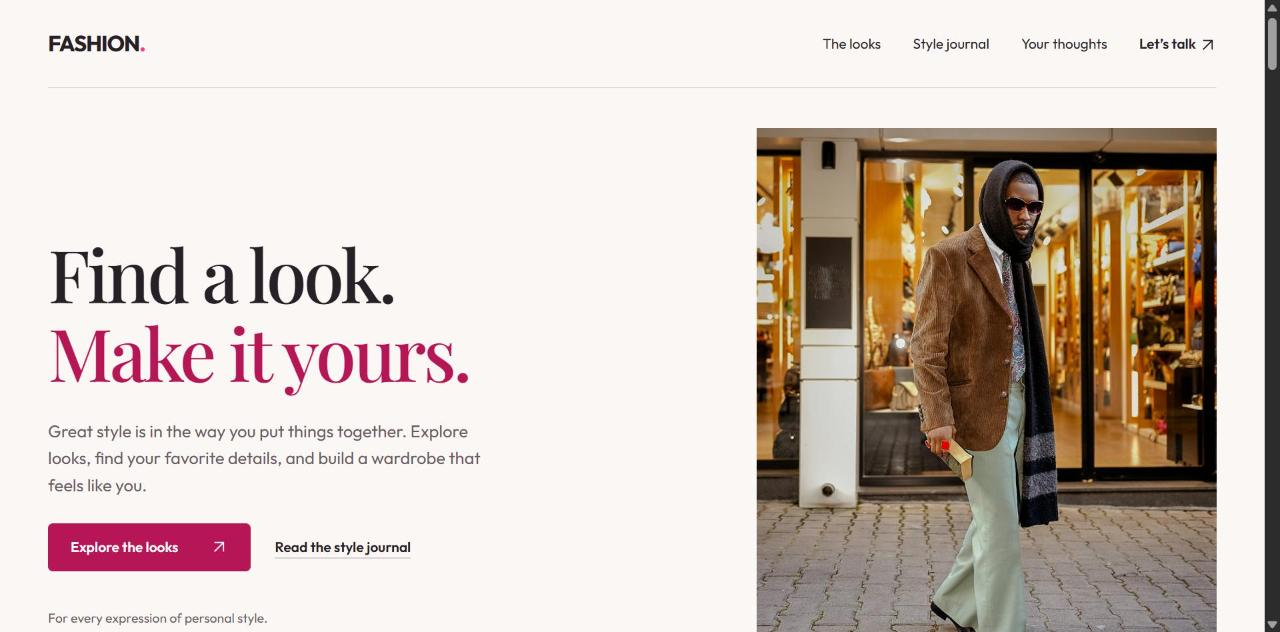
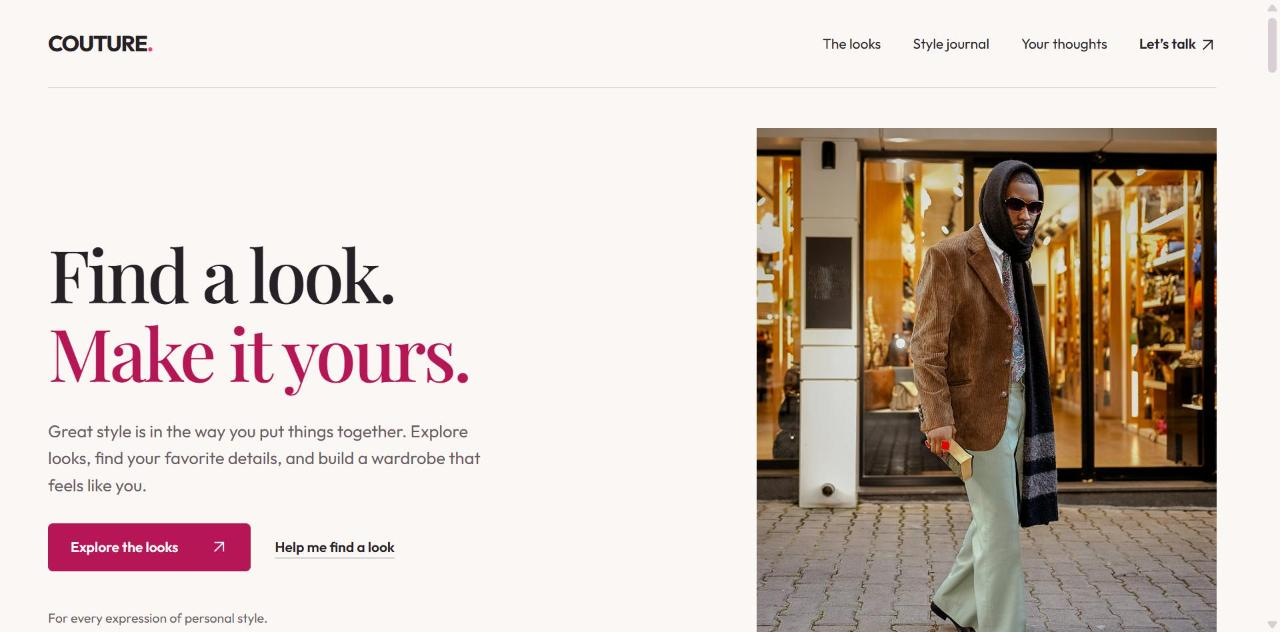
Move Couture (fashion site) to the larger systems, with a fresh screenshot

Changed region(s): [[0.9688, 0.0, 1.0, 1.0], [0.0312, 0.0301, 0.125, 0.0902], [0.2188, 0.8418, 0.3125, 0.8718]]

diff --git a/index.html b/index.html
@@ -392,6 +392,38 @@
                     </div>
                 </div>
 
+<!-- Couture -->
+                <div class="bg-slate-900/60 border border-slate-800/80 rounded-xl p-5 sm:p-6 flex flex-col justify-between hover:border-slate-700 transition-all duration-300 hover:-translate-y-1 hover:shadow-xl hover:shadow-black/30 group">
+                    <div>
+                <a href="https://fash.derrickbarasa.online" target="_blank" rel="noopener noreferrer nofollow" tabindex="-1" aria-label="Open the Couture website" class="relative block bg-slate-800 -mx-5 -mt-5 sm:-mx-6 sm:-mt-6 mb-5 rounded-t-xl overflow-hidden border-b border-slate-800/80">
+                    <span class="absolute top-2 right-2 z-10 inline-flex items-center gap-1.5 px-2 py-0.5 rounded-full bg-slate-950/80 border border-slate-700 text-xs font-mono font-semibold text-white"><span class="w-1.5 h-1.5 rounded-full bg-emerald-400"></span>Live</span>
+                    <img src="img/fashion.jpg?v=2" alt="Screenshot of the Couture website" width="1280" height="632" loading="lazy" decoding="async" class="w-full aspect-video object-cover object-top group-hover:scale-[1.03] transition-transform duration-500">
+                </a>
+                        <div class="flex justify-between items-start mb-4">
+                            <h4 class="text-xl font-bold text-white group-hover:text-brand-500 transition-colors">Couture</h4>
+                            <span class="text-xs font-mono bg-brand-500/10 text-brand-500 px-2.5 py-1 rounded border border-brand-500/20">Web Platform</span>
+                        </div>
+                        <p class="text-slate-400 text-sm mb-4 leading-relaxed">
+                            A hobby project: an outfit inspiration website where visitors browse looks for everyday, work and nights out, use a small style finder and read a style journal.
+                        </p>
+                        <ul class="text-xs text-slate-400 space-y-2 mb-6 font-mono">
+                            <li class="flex items-center gap-2"><svg class="ic text-brand-500" viewBox="0 0 320 512" fill="currentColor" aria-hidden="true"><use href="#i3"/></svg> Style finder that suggests looks by occasion, mood and colour</li>
+                            <li class="flex items-center gap-2"><svg class="ic text-brand-500" viewBox="0 0 320 512" fill="currentColor" aria-hidden="true"><use href="#i3"/></svg> Feedback form and a style journal</li>
+                        </ul>
+                        <p class="text-xs font-mono text-slate-500 mb-6 -mt-3 flex items-start gap-2"><svg class="ic text-brand-500 mt-0.5" viewBox="0 0 576 512" fill="currentColor" aria-hidden="true"><use href="#i10"/></svg> What I did: design, front end, style finder, going live</p>
+                    </div>
+                    <div>
+                        <div class="flex flex-wrap gap-2 mb-6">
+                            <span class="text-xs font-mono px-2 py-1 bg-slate-800 text-slate-300 rounded">HTML</span>
+                            <span class="text-xs font-mono px-2 py-1 bg-slate-800 text-slate-300 rounded">CSS</span>
+                            <span class="text-xs font-mono px-2 py-1 bg-slate-800 text-slate-300 rounded">JavaScript</span>
+                        </div>
+                        <a href="https://fash.derrickbarasa.online" target="_blank" rel="noopener noreferrer nofollow" class="text-brand-500 hover:text-brand-600 font-mono text-xs flex items-center gap-2 transition-colors">
+                            <svg class="ic" viewBox="0 0 512 512" fill="currentColor" aria-hidden="true"><use href="#i11"/></svg> Visit live website
+                        </a>
+                    </div>
+                </div>
+
                 <!-- Canteen Management System -->
                 <div class="bg-slate-900/60 border border-slate-800/80 rounded-xl p-5 sm:p-6 flex flex-col justify-between hover:border-slate-700 transition-all">
                     <div>
@@ -470,46 +502,14 @@
             <details class="more-projects mb-12">
                 <summary class="more-bar">
                     <span class="more-bar-text">
-                        <span class="when-closed more-bar-title">Show 3 more projects</span><span class="when-open more-bar-title">Show fewer projects</span>
-                        <span class="more-bar-sub">Fashion, Derrick Gallery, remitcore, 3 small tools and 4 projects in development</span>
+                        <span class="when-closed more-bar-title">Show 2 more projects</span><span class="when-open more-bar-title">Show fewer projects</span>
+                        <span class="more-bar-sub">Derrick Gallery, remitcore, 3 small tools and 4 projects in development</span>
                     </span>
                     <span class="more-bar-icon"><svg class="ic chev" viewBox="0 0 512 512" fill="currentColor" aria-hidden="true"><use href="#i15"/></svg></span>
                 </summary>
             <!-- Group 1: Web platforms -->
                 <h3 class="sub-title">More live websites</h3>
                 <div class="grid grid-cols-1 md:grid-cols-2 lg:grid-cols-3 gap-6 mb-12">
-
-<!-- Fashion -->
-                <div class="bg-slate-900/60 border border-slate-800/80 rounded-xl p-5 sm:p-6 flex flex-col justify-between hover:border-slate-700 transition-all duration-300 hover:-translate-y-1 hover:shadow-xl hover:shadow-black/30 group">
-                    <div>
-                <a href="https://fash.derrickbarasa.online" target="_blank" rel="noopener noreferrer nofollow" tabindex="-1" aria-label="Open the Fashion website" class="relative block bg-slate-800 -mx-5 -mt-5 sm:-mx-6 sm:-mt-6 mb-5 rounded-t-xl overflow-hidden border-b border-slate-800/80">
-                    <span class="absolute top-2 right-2 z-10 inline-flex items-center gap-1.5 px-2 py-0.5 rounded-full bg-slate-950/80 border border-slate-700 text-xs font-mono font-semibold text-white"><span class="w-1.5 h-1.5 rounded-full bg-emerald-400"></span>Live</span>
-                    <img src="img/fashion.jpg" alt="Screenshot of the Fashion website" width="1280" height="632" loading="lazy" decoding="async" class="w-full aspect-video object-cover object-top group-hover:scale-[1.03] transition-transform duration-500">
-                </a>
-                        <div class="flex justify-between items-start mb-4">
-                            <h4 class="text-xl font-bold text-white group-hover:text-brand-500 transition-colors">Fashion</h4>
-                            <span class="text-xs font-mono bg-brand-500/10 text-brand-500 px-2.5 py-1 rounded border border-brand-500/20">Web Platform</span>
-                        </div>
-                        <p class="text-slate-400 text-sm mb-4 leading-relaxed">
-                            A hobby project: an outfit inspiration website where visitors browse looks for everyday, work and nights out, use a small style finder and read a style journal.
-                        </p>
-                        <ul class="text-xs text-slate-400 space-y-2 mb-6 font-mono">
-                            <li class="flex items-center gap-2"><svg class="ic text-brand-500" viewBox="0 0 320 512" fill="currentColor" aria-hidden="true"><use href="#i3"/></svg> Style finder that suggests looks by occasion, mood and colour</li>
-                            <li class="flex items-center gap-2"><svg class="ic text-brand-500" viewBox="0 0 320 512" fill="currentColor" aria-hidden="true"><use href="#i3"/></svg> Feedback form and a style journal</li>
-                        </ul>
-                        <p class="text-xs font-mono text-slate-500 mb-6 -mt-3 flex items-start gap-2"><svg class="ic text-brand-500 mt-0.5" viewBox="0 0 576 512" fill="currentColor" aria-hidden="true"><use href="#i10"/></svg> What I did: design, front end, style finder, going live</p>
-                    </div>
-                    <div>
-                        <div class="flex flex-wrap gap-2 mb-6">
-                            <span class="text-xs font-mono px-2 py-1 bg-slate-800 text-slate-300 rounded">HTML</span>
-                            <span class="text-xs font-mono px-2 py-1 bg-slate-800 text-slate-300 rounded">CSS</span>
-                            <span class="text-xs font-mono px-2 py-1 bg-slate-800 text-slate-300 rounded">JavaScript</span>
-                        </div>
-                        <a href="https://fash.derrickbarasa.online" target="_blank" rel="noopener noreferrer nofollow" class="text-brand-500 hover:text-brand-600 font-mono text-xs flex items-center gap-2 transition-colors">
-                            <svg class="ic" viewBox="0 0 512 512" fill="currentColor" aria-hidden="true"><use href="#i11"/></svg> Visit live website
-                        </a>
-                    </div>
-                </div>
 
 <!-- Derrick Gallery -->
                 <div class="bg-slate-900/60 border border-slate-800/80 rounded-xl p-5 sm:p-6 flex flex-col justify-between hover:border-slate-700 transition-all duration-300 hover:-translate-y-1 hover:shadow-xl hover:shadow-black/30 group">
